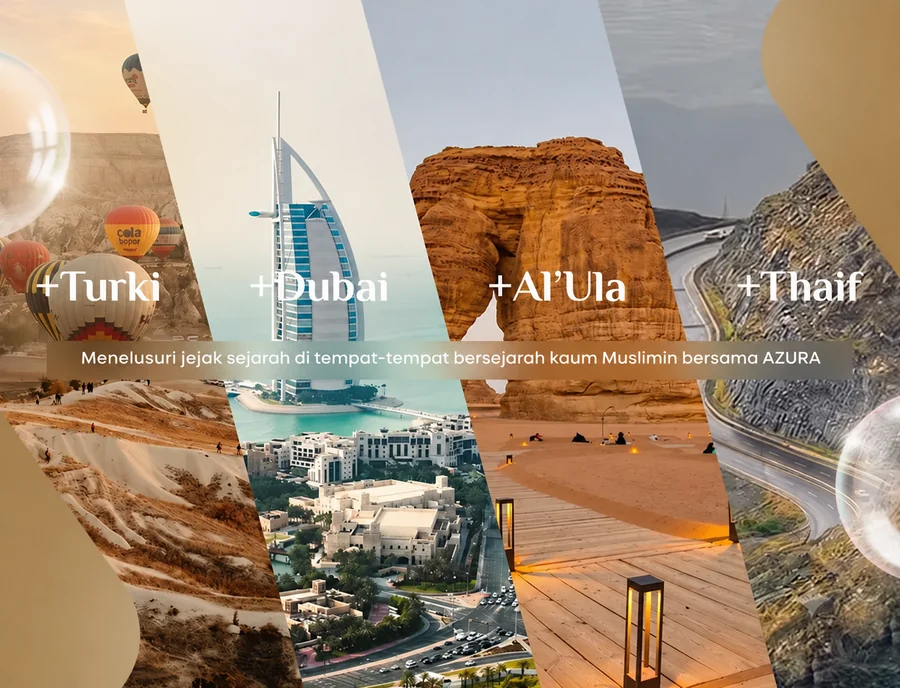
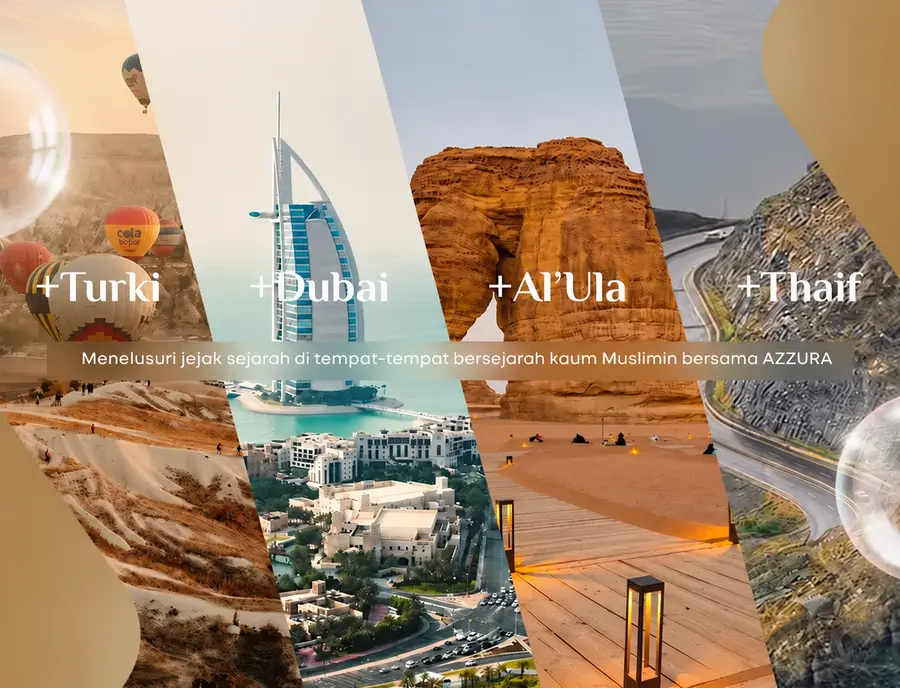
fix(azzura): correct brand spelling and admin WhatsApp number

diff --git a/branding/azura/theme.css b/branding/azura/theme.css
@@ -1,4 +1,4 @@
-/* AZURA Tour & Travel — brand palette supplied November 2026.
+/* AZZURA Tour & Travel — brand palette supplied November 2026.
    Applied to every mirrored page at build time, after the source styles. */
 :root {
   --azura-gold: #D4AF37;

diff --git a/PAYUNGMADINAH.md b/PAYUNGMADINAH.md
@@ -3,12 +3,12 @@
 This client website is mounted at `/azura` within the existing
 PESONAFLIX Vite/Vercel project. The original owner approved replication.
 The former `/payungmadinah` links permanently redirect to `/azura`.
-The public brand name, logo, favicon and color scheme are AZURA Tour & Travel;
+The public brand name, logo, favicon and color scheme are AZZURA Tour & Travel;
 the original archive names remain unchanged for checksum integrity.
 
 - Homepage plus 39 linked information, catalogue, campaign and article pages.
 - WhatsApp buttons and all detected customer-service WhatsApp numbers have
-  been changed to **+62 852-2200-5585** (`6285222005585`).
+  been changed to **0813-6137-7520** (`6281361377520`).
 - All first-party static assets are local; no hotlinking to source images.
 - Google Tag Manager, Hotjar and Facebook Pixel tracking belonging to the
   source website are intentionally excluded.
